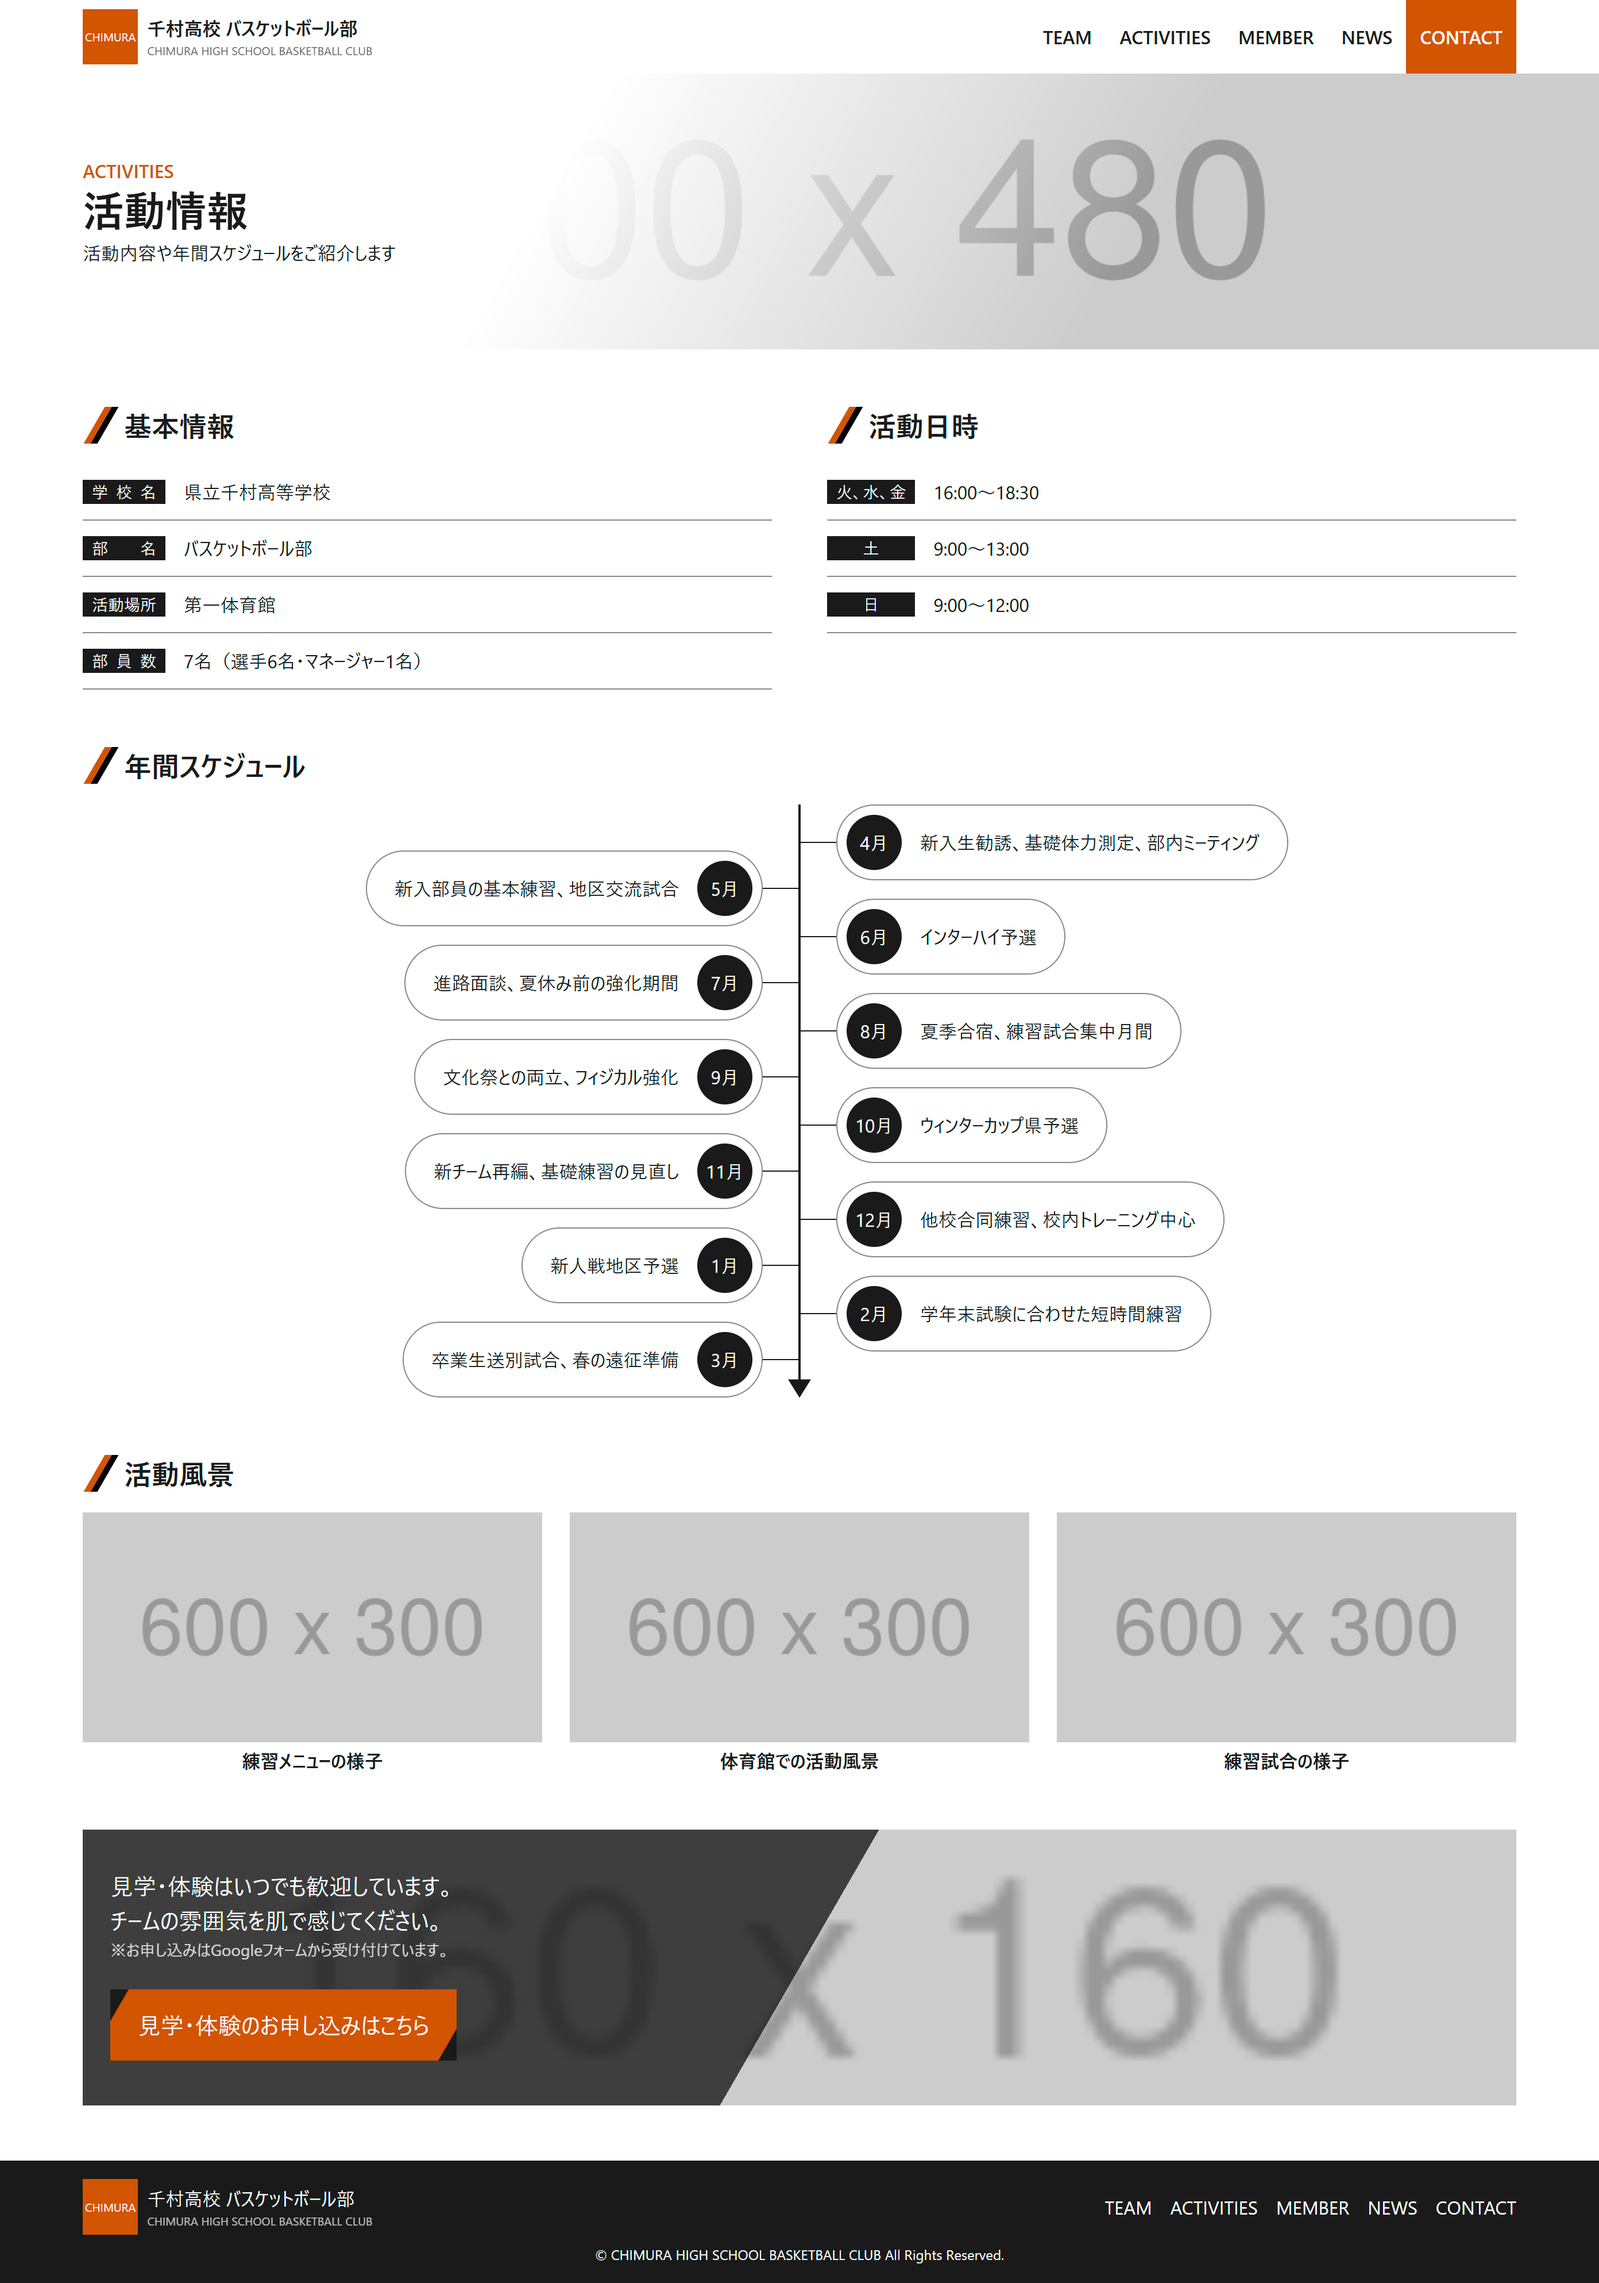
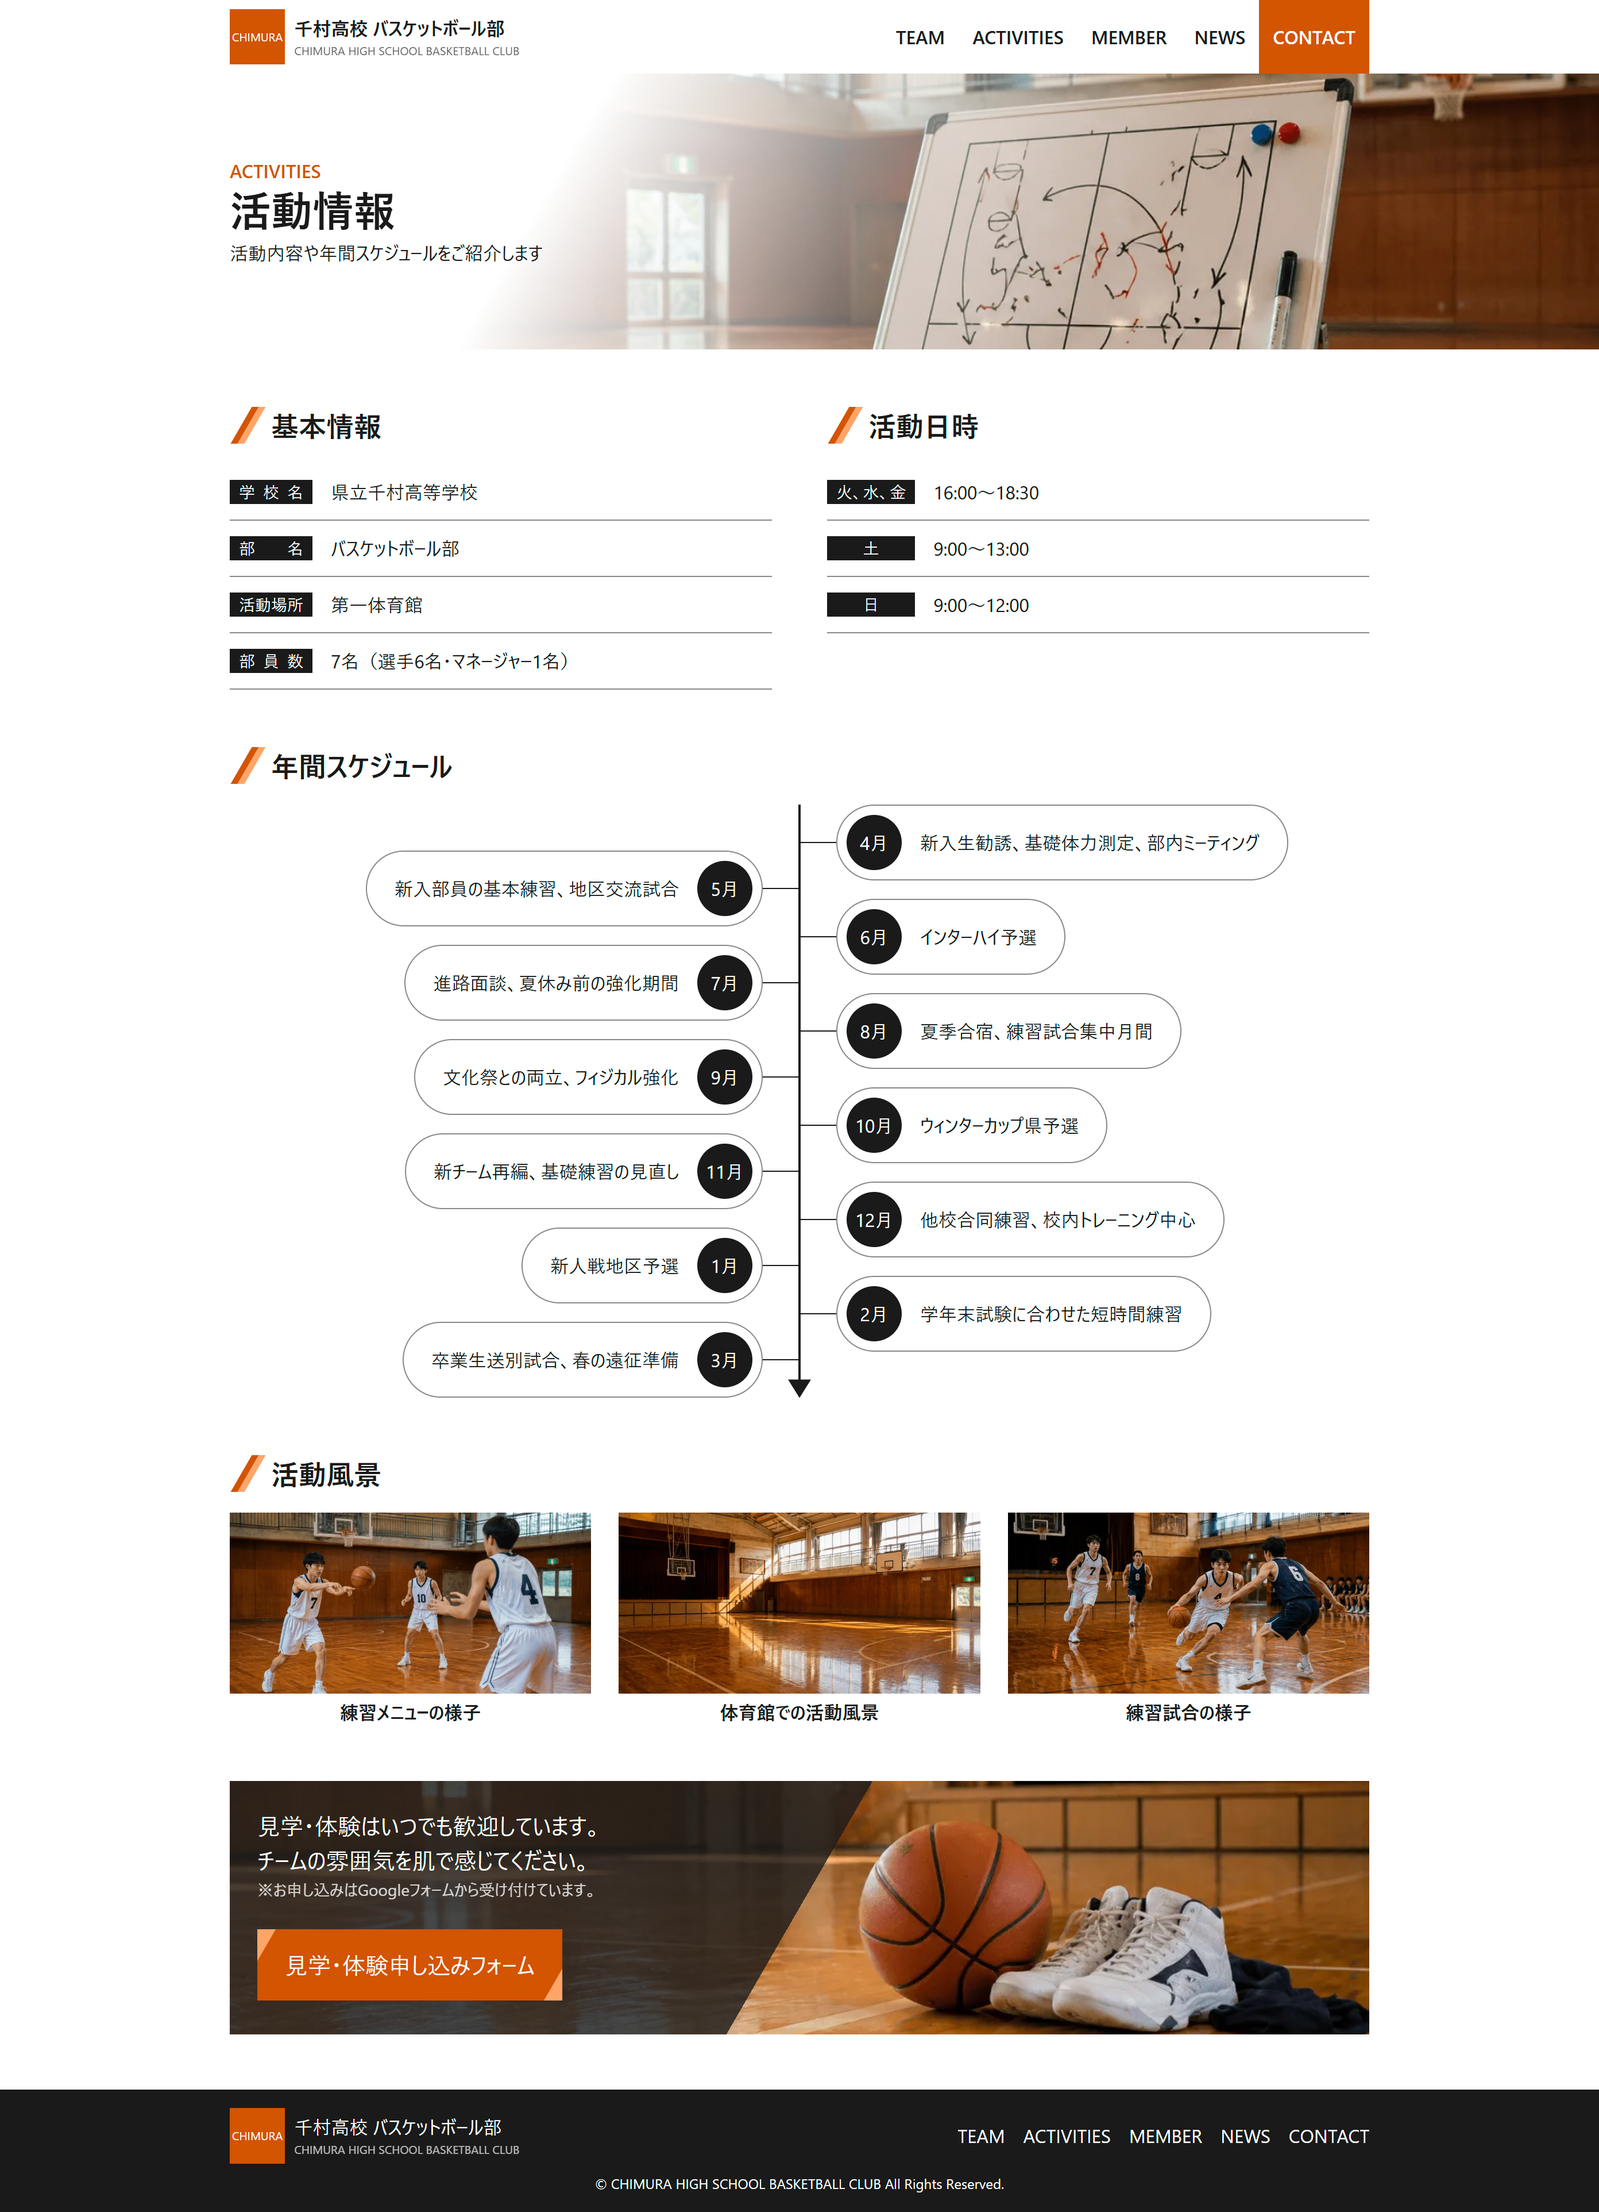
fix

diff --git a/plan/バスケットボール部サイト制作/初回コーディング改善案/TEAM.md b/plan/バスケットボール部サイト制作/初回コーディング改善案/TEAM.md
@@ -1,0 +1,83 @@
+# チーム紹介ページ デザイン改善案
+
+## 全体評価
+
+-   トーン統一（白×黒×オレンジ）は良い
+-   余白も適切
+-   情報の強弱と視線誘導が弱い
+
+------------------------------------------------------------------------
+
+## ① ファーストビュー改善
+
+### 課題
+
+-   意味が弱い
+-   雰囲気が伝わらない
+
+### 改善
+
+-   コピー＋補足を追加
+-   スクロール誘導を入れる
+
+------------------------------------------------------------------------
+
+## ② チームの特徴
+
+### 課題
+
+-   情報の強弱がない
+
+### 改善
+
+-   強調カードを1つ作る
+-   アイコンに意味を持たせる
+
+------------------------------------------------------------------------
+
+## ③ 大切にしていること
+
+### 課題
+
+-   単調で読みにくい
+
+### 改善
+
+-   ストーリー化（STEP形式）
+-   縦レイアウトに変更
+
+------------------------------------------------------------------------
+
+## ④ CTA改善
+
+### 課題
+
+-   行動したくなる理由が弱い
+
+### 改善
+
+-   コピー改善
+-   ボタンサイズ強化
+
+------------------------------------------------------------------------
+
+## ⑤ UI改善
+
+-   セクション区切りを強化
+-   見出しのメリハリ
+-   行間調整
+
+------------------------------------------------------------------------
+
+## 優先順位
+
+1.  ファーストビュー
+2.  情報の強弱
+3.  CTA
+4.  セクション整理
+
+------------------------------------------------------------------------
+
+## まとめ
+
+整理はできているが、体験設計を強化することで よりプロ品質に近づく

diff --git a/MEMO.md b/MEMO.md
@@ -23,6 +23,10 @@
   - https://docs.astro.build/ja/reference/astro-syntax/#動的タグ
 - 背景が周りになじむよう、画像を延長するような指示は上手くできなかった
   - 調べる：画像の端をぼかしたりして、周りとなじませるCSSとか利用シーンありそう？
+- サイトURLを入れて改善案を出力したもらった際、記載されているテキストが勝手に削除・変更されていた
+  - 「テキストは変更しない」という指示を加えて改善案の出力依頼をしてみる
+- 一度全体を作成してから再度全体に対しての改善案を出してもらった（※「初回コーディング改善案」の内容）。結構修正内容にばらつきがあり、もし改善案を反映しようとすると全体の統一感を再度検討する必要がでそう。自分の感触としては作業負荷がすごく大きくなりそう。なので、最初にデザインの全体像を固めたほうが良いと感じる
+- stitchは出力されるデザインのトーンのバリエーション少ないと感じる（モックやデザインがシンプルなアプリ 以外での利用だとちょっと物足りなく感じる）
 
 ## 次やってみたい
 

diff --git a/plan/バスケットボール部サイト制作/初回コーディング改善案/MEMBER.md b/plan/バスケットボール部サイト制作/初回コーディング改善案/MEMBER.md
@@ -1,0 +1,13 @@
+デザインの主な改善ポイント:
+
+### 躍動感のあるヒーローセクション:
+チームの絆と熱量を伝える背景画像を採用し、タイトルには「Athletic Momentum」の力強いタイポグラフィを適用しました。
+
+### 洗練された選手カード
+各選手の情報を整理し、顔写真が引き立つカードレイアウトに刷新しました。ポジションや得意なプレーなどの属性を視覚的に整理し、読みやすさを向上させています。
+
+### 情報の階層化
+選手、マネージャー・顧問、そしてチームメッセージの各セクションを明確な余白と境界線で区切り、流し読みでも内容が把握しやすい構成にしました。
+
+### 一貫したブランドアイデンティティ
+前回の活動内容ページ（活動内容ページ 改善案）とトーンを統一し、オレンジのアクセントカラーとモダンなフォント使いで、チームのプロフェッショナルなイメージを強化しています。

diff --git a/plan/バスケットボール部サイト制作/初回コーディング改善案/ACTIVITIES（stitch）.md b/plan/バスケットボール部サイト制作/初回コーディング改善案/ACTIVITIES（stitch）.md
@@ -1,0 +1,14 @@
+デザインの主な変更点:
+
+### 躍動感のあるヒーローセクション
+バスケットボールコートを背景に配置し、部活動の現場感が伝わる力強いファーストビューに刷新しました。
+
+### 視認性の高いスケジュール管理
+- 週間予定: 活動時間をダークトーンのカードにまとめ、アクセントカラーを用いることで、平日と休日の違いを一目で判別可能にしました。
+- 年間スケジュール: 縦型のタイムライン形式を採用し、月ごとの主要イベントがスムーズに読み取れるレイアウトに整理しました。
+
+### ギャラリーの充実
+活動風景を際立たせるため、大きな画像カードを採用し、現場の熱量が伝わるビジュアル構成にしました。
+
+### 一貫したブランド感
+前回のチーム紹介ページとトーンを合わせ、オレンジを効果的に使うことで、サイト全体での統一感を高めています。

diff --git a/plan/バスケットボール部サイト制作/初回コーディング改善案/TEAM（stitch）.md b/plan/バスケットボール部サイト制作/初回コーディング改善案/TEAM（stitch）.md
@@ -1,0 +1,13 @@
+主な改善ポイントは以下の通りです：
+
+### ヒーローセクションの強化
+チームの力強さを表現するため、バスケットボールの躍動感を感じさせる高品質な背景画像と、視認性の高いタイポグラフィを採用しました。
+
+### 視覚的な情報の整理
+「チームの特徴」をカードレイアウトに変更し、アイコンやオレンジのアクセントカラーを使用することで、直感的に内容が伝わるようにしました。
+
+### タイポグラフィと余白の最適化
+読みやすさを向上させるため、セクション間の余白を十分に確保し、洗練されたサンセリフ体（ゴシック系）フォントで構成を整えています。
+
+### スポーティなカラーパレット
+活気を感じさせるオレンジ、誠実さを表すネイビーやチャコールグレーを基調とし、スポーツチームらしいプロフェッショナルな雰囲気を演出しました。

diff --git a/plan/バスケットボール部サイト制作/初回コーディング改善案/TOP（stitch）.md b/plan/バスケットボール部サイト制作/初回コーディング改善案/TOP（stitch）.md
@@ -1,0 +1,13 @@
+デザインの主な改善ポイント:
+
+### インパクトのあるファーストビュー
+「心技体、すべてをコートにぶつけろ。」という力強いメッセージを際立たせるため、コートの質感を感じさせる高品質な背景画像と大胆なタイポグラフィを採用しました。
+
+### 情報のゾーニング
+ニュース、チーム紹介、活動内容といった各セクションを明確に区分けし、スクロールするだけでチームの全体像が把握できる構成にしました。
+
+### 視覚的なアクセント
+オレンジをメインカラー、ネイビーをサブカラーとして効果的に配置し、スポーツチームらしいエネルギーとプロフェッショナルな誠実さを両立させています。
+
+### 一貫したユーザー体験
+他のページで採用したカードデザインやアイコン、余白のルールを適用し、サイト全体としてのブランド体験を統一しました。

diff --git a/plan/バスケットボール部サイト制作/初回コーディング改善案/CONTACT（stitch）.md b/plan/バスケットボール部サイト制作/初回コーディング改善案/CONTACT（stitch）.md
@@ -1,0 +1,13 @@
+デザインの主な改善ポイント:
+
+### 安心感を醸成するビジュアル構成
+ヒーローセクションに部活動の真剣さと温かさが伝わるビジュアルを採用し、ページ全体のトーンを「Athletic Momentum」のブランドカラーで統一しました。
+
+### ステップガイドの視覚化
+お問い合わせから入部までの流れをアイコン付きのタイムライン形式に整理し、入部までのプロセスを直感的に理解できるようにしました。
+
+### FAQの視認性向上
+質問と回答を整理されたカード形式で配置し、疑問点をスムーズに解決できるユーザーフレンドリーな設計にしています。
+
+### アクションの明確化
+ページ下部に見学・体験申し込みへの導線を大きく配置し、次のアクションへ移りやすい構成にしました。

diff --git a/plan/バスケットボール部サイト制作/初回コーディング改善案/NEWS（stitch）.md b/plan/バスケットボール部サイト制作/初回コーディング改善案/NEWS（stitch）.md
@@ -1,0 +1,13 @@
+デザインの主なポイント:
+
+### 躍動感と情報の整理
+ヒーローセクションには、ニュースの新鮮さと競技の真剣さを伝えるビジュアルを採用しました。
+
+### タイムライン形式のニュース一覧
+各記事のカテゴリー（お知らせ・試合情報・大会情報）をタグで色分けし、時系列で直感的に把握できるリスト形式に整理しました。
+
+### 実績のカード化
+過去の主な実績をアイコン付きのカードで表現し、チームの成長の軌跡を視覚的に際立たせています。
+
+### 一貫したスポーツブランド
+「Athletic Momentum」デザインシステムに基づき、力強いタイポグラフィとオレンジのアクセントカラーを効果的に配置し、他のページとの統一感を保っています。

diff --git a/plan/プロンプトメモ.md b/plan/プロンプトメモ.md
@@ -1,0 +1,8 @@
+下記のページについて、画面デザインの改善案を教えていただけますでしょうか。
+https://zakzakst.github.io/ai-practice/activities/
+
+### 制約
+- ページに記載されているテキストは**決して変更・修正**しないでください
+- 変更するのはデザイン、画像のみにしてください
+
+---
